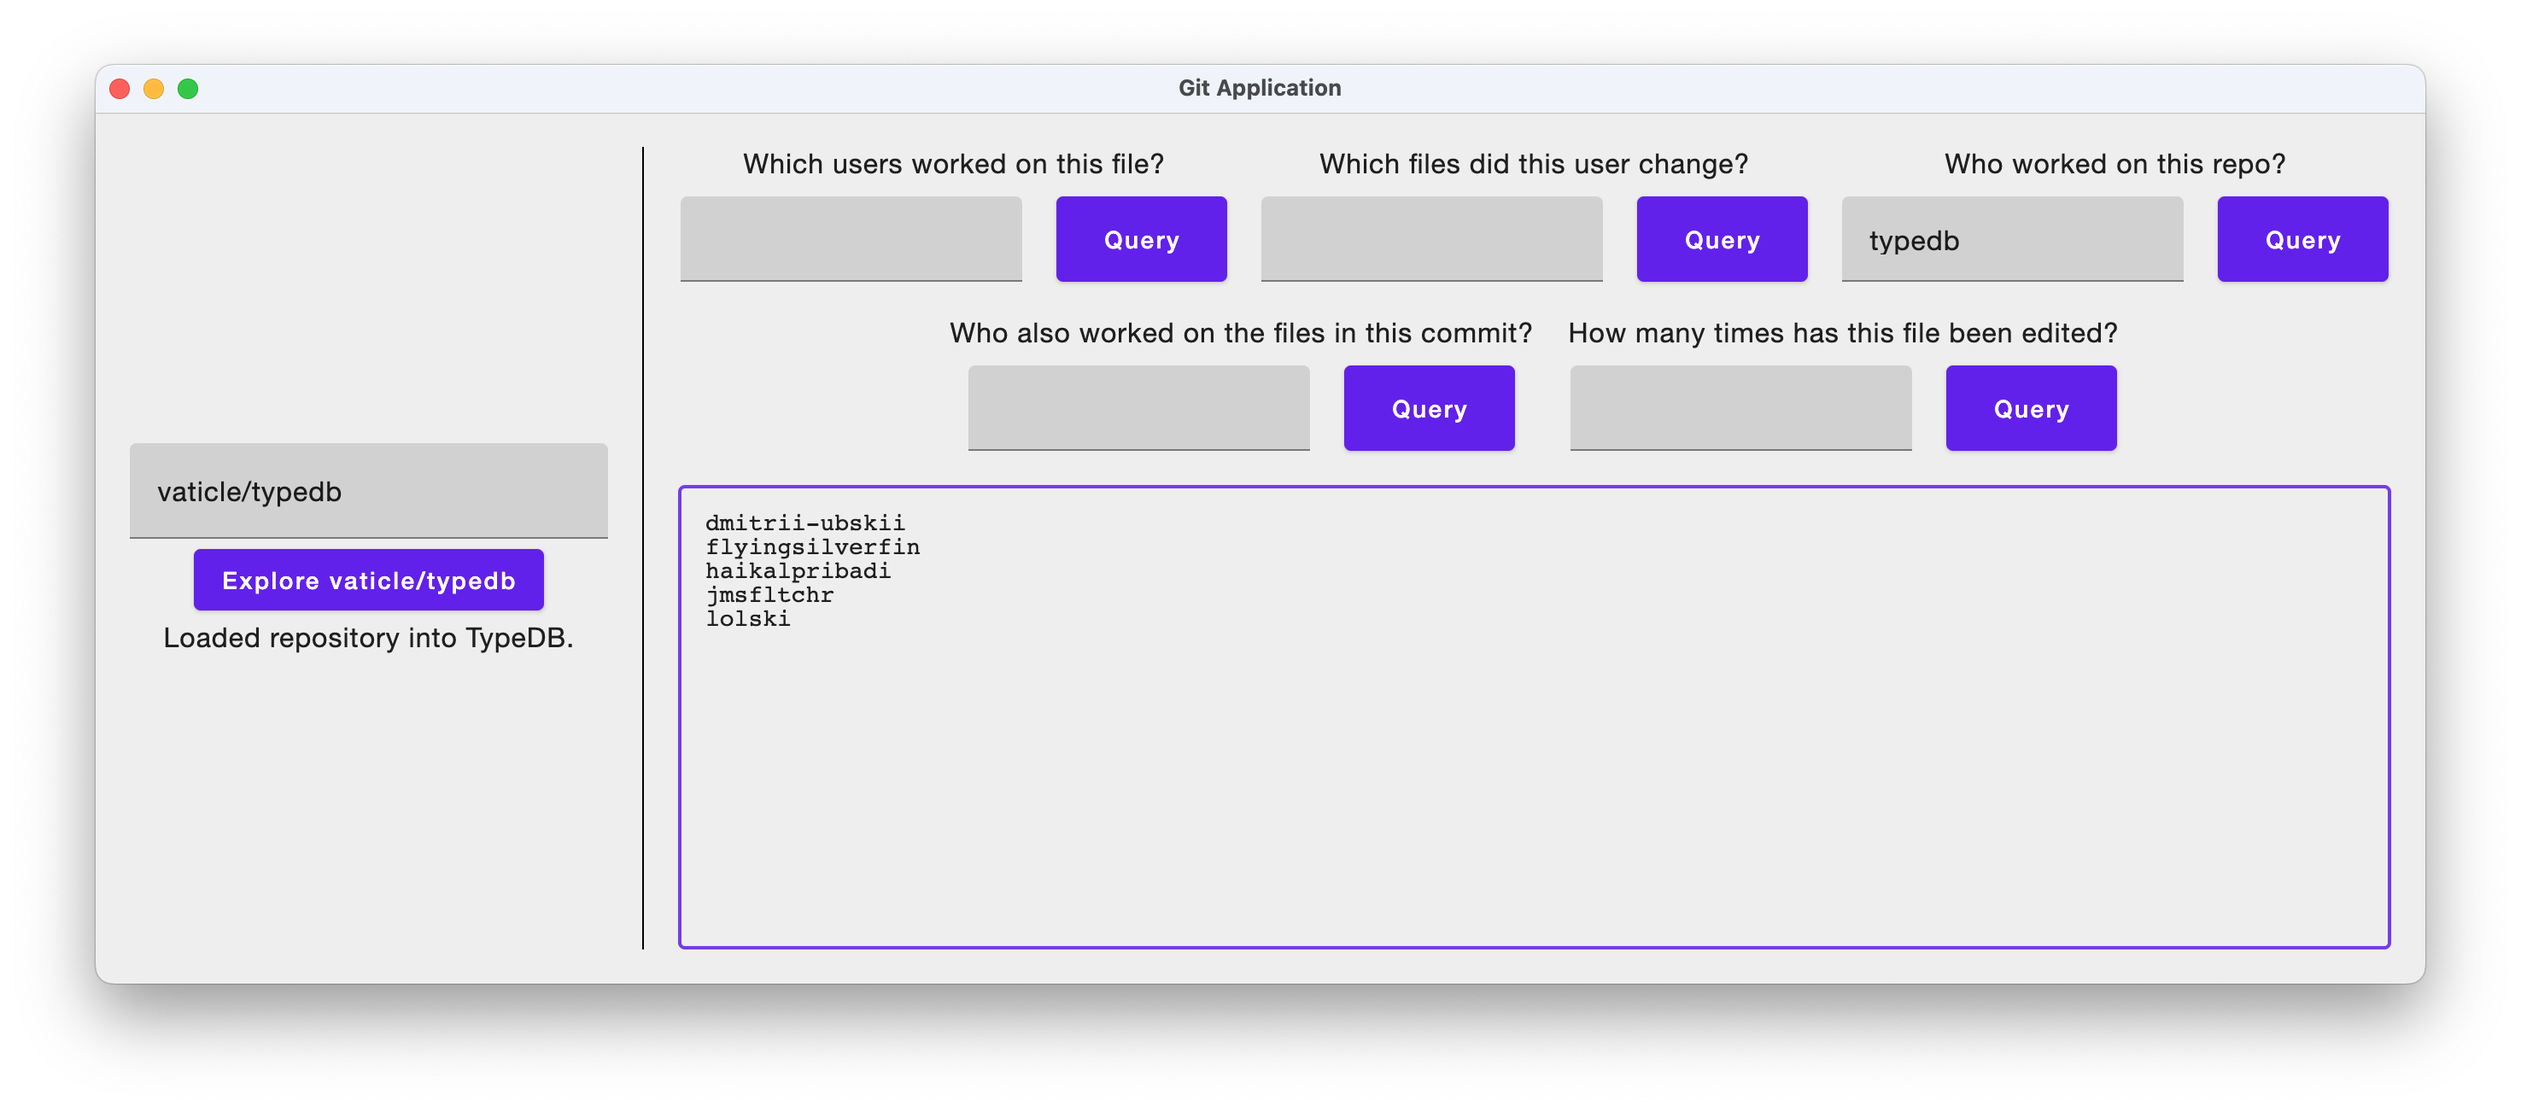
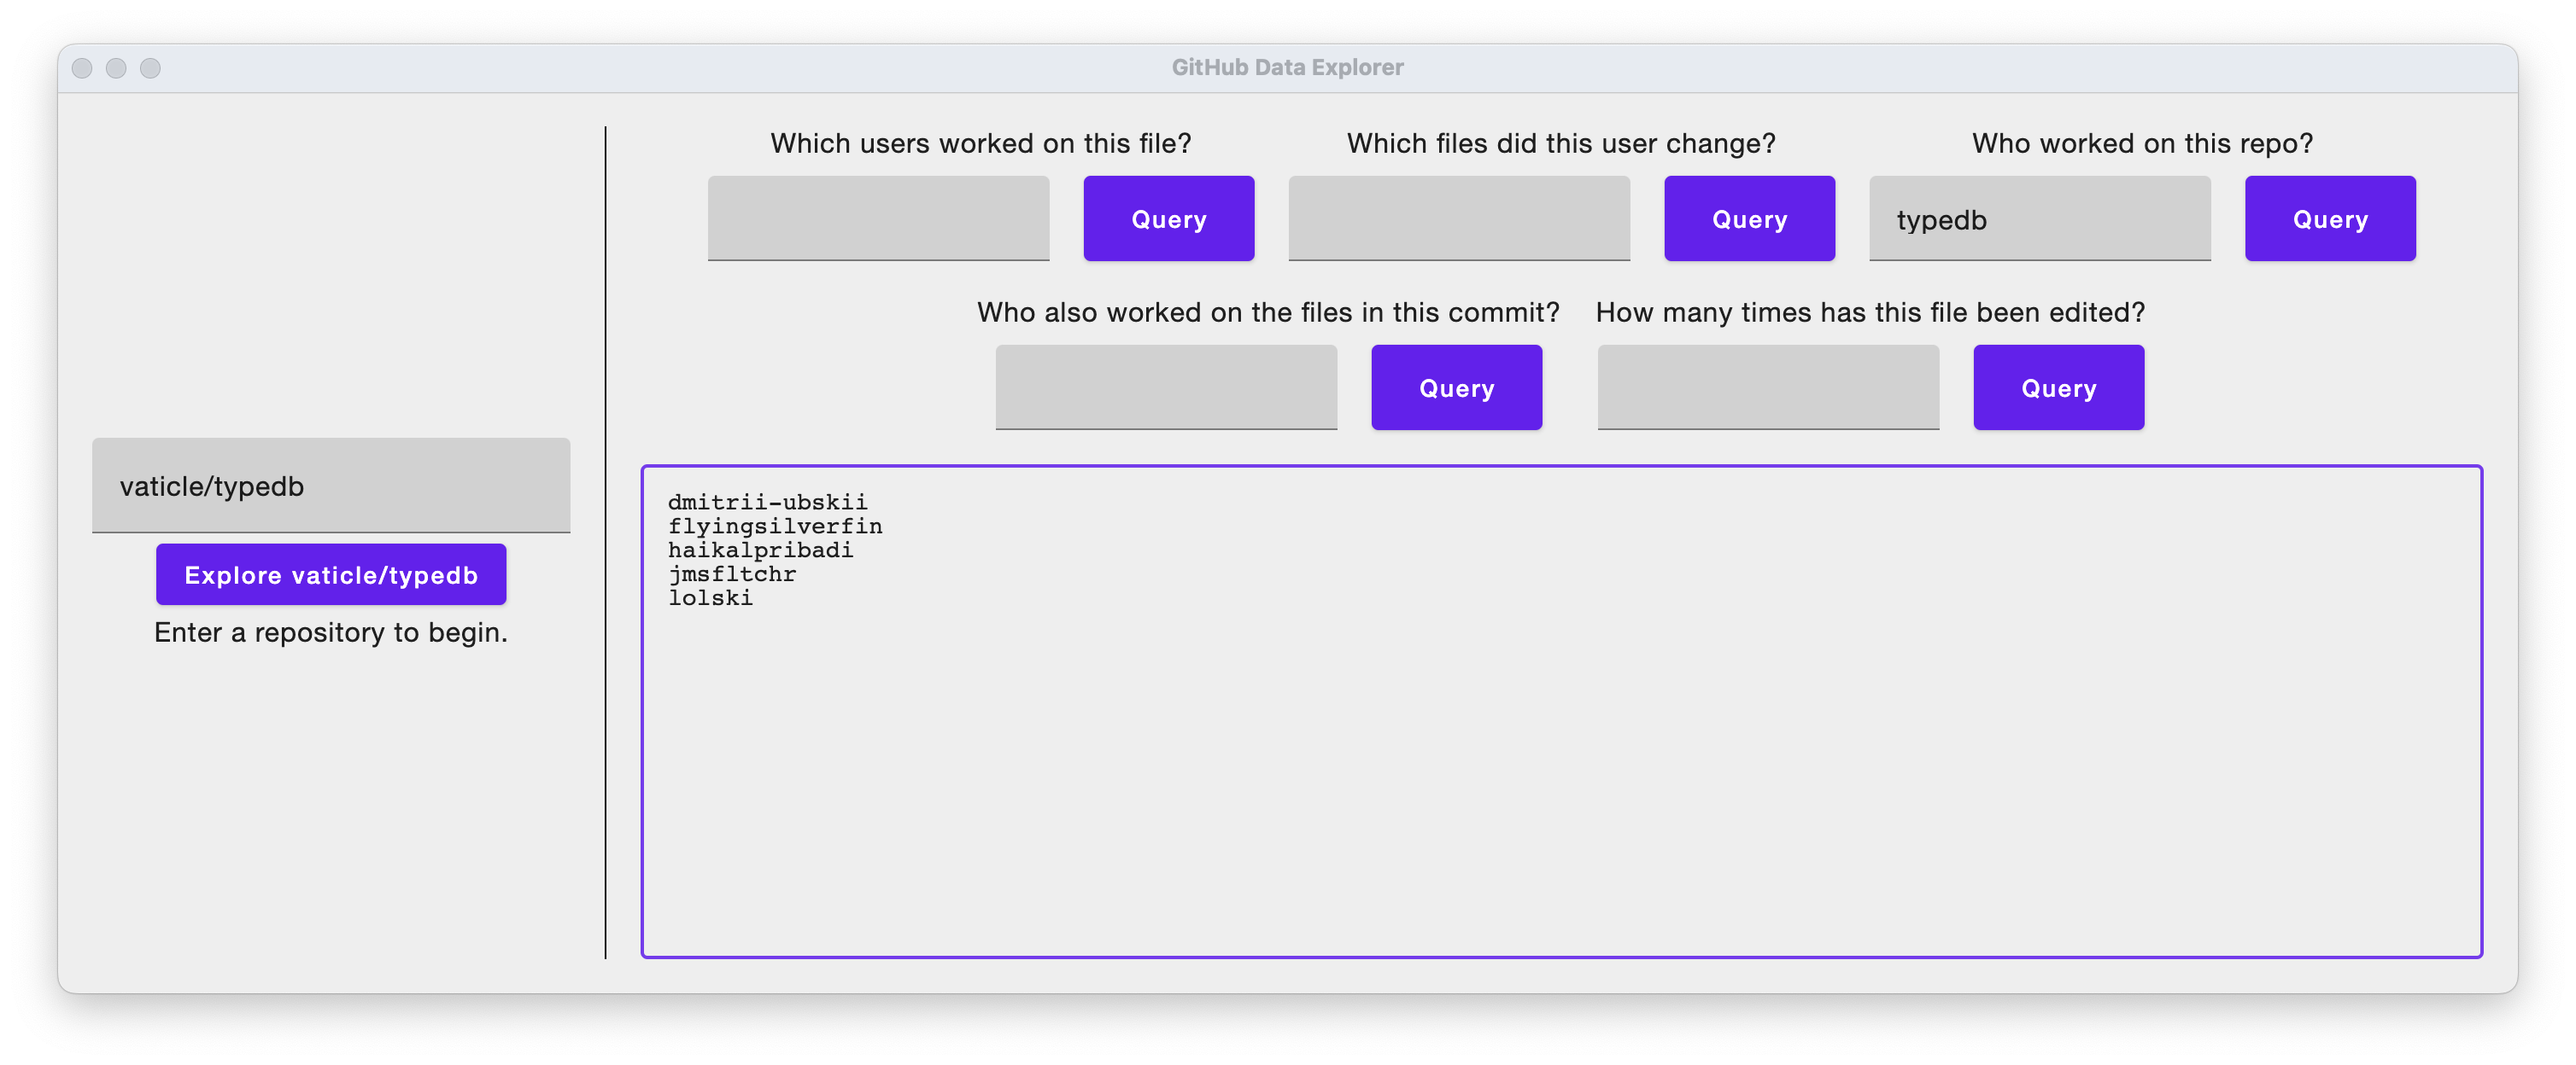
feat: divided main window into more composables.
fix: screenshot reflects new app name, star import nixed, variable name stylistic fixes

diff --git a/github/view/GitApplication.kt b/github/view/GitApplication.kt
@@ -68,7 +68,7 @@ object GitApplication {
     fun main(args: Array<String>) {
         application(exitProcessOnExit = false) {
             MaterialTheme {
-                mainWindow(::exitApplication)
+                MainWindow(::exitApplication)
             }
         }
     }
@@ -82,60 +82,9 @@ object GitApplication {
 
         ) {
             Row(modifier = Modifier.padding(20.dp), horizontalArrangement = Arrangement.spacedBy(20.dp)) {
-                Column(modifier = Modifier.fillMaxHeight(), horizontalAlignment = Alignment.CenterHorizontally,
-                    verticalArrangement = Arrangement.Center) {
-                    TextField(value = repoTextFieldValue, singleLine = true, onValueChange = {
-                        repoTextFieldValue = it
-                        exploreButtonTextValue = "Explore $it"
-                    })
-                    Button(onClick = {
-                        coroutineScope.launch {
-                            val path = GlobalState.downloader.download(repoTextFieldValue)
-                            GlobalState.migrator.migrate(path)
-                        }
-                    }) {
-                        Text(exploreButtonTextValue)
-                    }
-                    Text(repoStatusValue())
-                }
+                DownloadArea()
                 Divider(color = Color.Black, modifier = Modifier.fillMaxHeight().width(1.dp))
-                Column(verticalArrangement = Arrangement.spacedBy(20.dp),
-                    horizontalAlignment = Alignment.CenterHorizontally) {
-
-                    Row(horizontalArrangement = Arrangement.spacedBy(20.dp)) {
-                        queryFieldAndButton("Which users worked on this file?") { input ->
-                            GlobalState.explorer.usersCollaboratedOnFile(
-                                input
-                            )
-                        }
-
-                        queryFieldAndButton("Which files did this user change?") { input ->
-                            GlobalState.explorer.filesEditedByUser(
-                                input
-                            )
-                        }
-
-                        queryFieldAndButton("Who worked on this repo?") { input ->
-                            GlobalState.explorer.usersWorkedOnRepo(
-                                input
-                            )
-                        }
-                    }
-                    Row(horizontalArrangement = Arrangement.spacedBy(20.dp)) {
-                        queryFieldAndButton("Who also worked on the files in this commit?") { input ->
-                            GlobalState.explorer.commitFilesAlsoWorkedOnByUsers(
-                                input
-                            )
-                        }
-                        queryFieldAndButton("How many times has this file been edited?") { input ->
-                            GlobalState.explorer.fileEditCount(
-                                input
-                            )
-                        }
-                    }
-                    OutlinedTextField(outputTextFieldValue, { }, readOnly = true, modifier = Modifier.fillMaxSize(),
-                        textStyle = TextStyle(fontFamily = FontFamily.Monospace))
-                }
+                QueryArea()
             }
         }
     }
@@ -160,6 +109,78 @@ object GitApplication {
                 }
             }
         }
+    }
+
+    @Composable
+    private fun DownloadArea() {
+        Column(modifier = Modifier.fillMaxHeight(), horizontalAlignment = Alignment.CenterHorizontally,
+            verticalArrangement = Arrangement.Center) {
+            TextField(value = repoTextFieldValue, singleLine = true, onValueChange = {
+                repoTextFieldValue = it
+                exploreButtonTextValue = "Explore $it"
+            })
+            Button(onClick = {
+                coroutineScope.launch {
+                    val path = GlobalState.downloader.download(repoTextFieldValue)
+                    GlobalState.migrator.migrate(path)
+                }
+            }) {
+                Text(exploreButtonTextValue)
+            }
+            Text(repoStatusValue())
+        }
+    }
+
+    @Composable
+    private fun QueryArea() {
+        Column(verticalArrangement = Arrangement.spacedBy(20.dp),
+            horizontalAlignment = Alignment.CenterHorizontally) {
+
+            QuerySelectorArea()
+
+            QueryOutputArea()
+        }
+    }
+
+    @Composable
+    private fun QuerySelectorArea() {
+        Row(horizontalArrangement = Arrangement.spacedBy(20.dp)) {
+            QueryFieldAndButton("Which users worked on this file?") { input ->
+                GlobalState.explorer.usersCollaboratedOnFile(
+                    input
+                )
+            }
+
+            QueryFieldAndButton("Which files did this user change?") { input ->
+                GlobalState.explorer.filesEditedByUser(
+                    input
+                )
+            }
+
+            QueryFieldAndButton("Who worked on this repo?") { input ->
+                GlobalState.explorer.usersWorkedOnRepo(
+                    input
+                )
+            }
+        }
+        Row(horizontalArrangement = Arrangement.spacedBy(20.dp)) {
+            QueryFieldAndButton("Who also worked on the files in this commit?") { input ->
+                GlobalState.explorer.commitFilesAlsoWorkedOnByUsers(
+                    input
+                )
+            }
+            QueryFieldAndButton("How many times has this file been edited?") { input ->
+                GlobalState.explorer.fileEditCount(
+                    input
+                )
+            }
+        }
+    }
+
+    @Composable
+    private fun QueryOutputArea() {
+        OutlinedTextField(outputTextFieldValue, { }, readOnly = true, modifier = Modifier.fillMaxSize(),
+            textStyle = TextStyle(fontFamily = FontFamily.Monospace))
     }
 
 

diff --git a/github/state/Downloader.kt b/github/state/Downloader.kt
@@ -3,7 +3,8 @@ package github.state
 import androidx.compose.runtime.mutableStateOf
 import androidx.compose.runtime.getValue
 import androidx.compose.runtime.setValue
-import org.kohsuke.github.*
+import org.kohsuke.github.GitHub
+import org.kohsuke.github.GHRepository
 import java.io.IOError
 
 class Downloader {

diff --git a/github/state/Migrator.kt b/github/state/Migrator.kt
@@ -85,7 +85,7 @@ class Migrator {
     }
 
     private fun pathToRepoFile(dataPath: String) : RepoFile {
-        return RepoFile.fromJson(getJson(data_path))
+        return RepoFile.fromJson(getJson(dataPath))
     }
 
     @Throws(FileNotFoundException::class)
